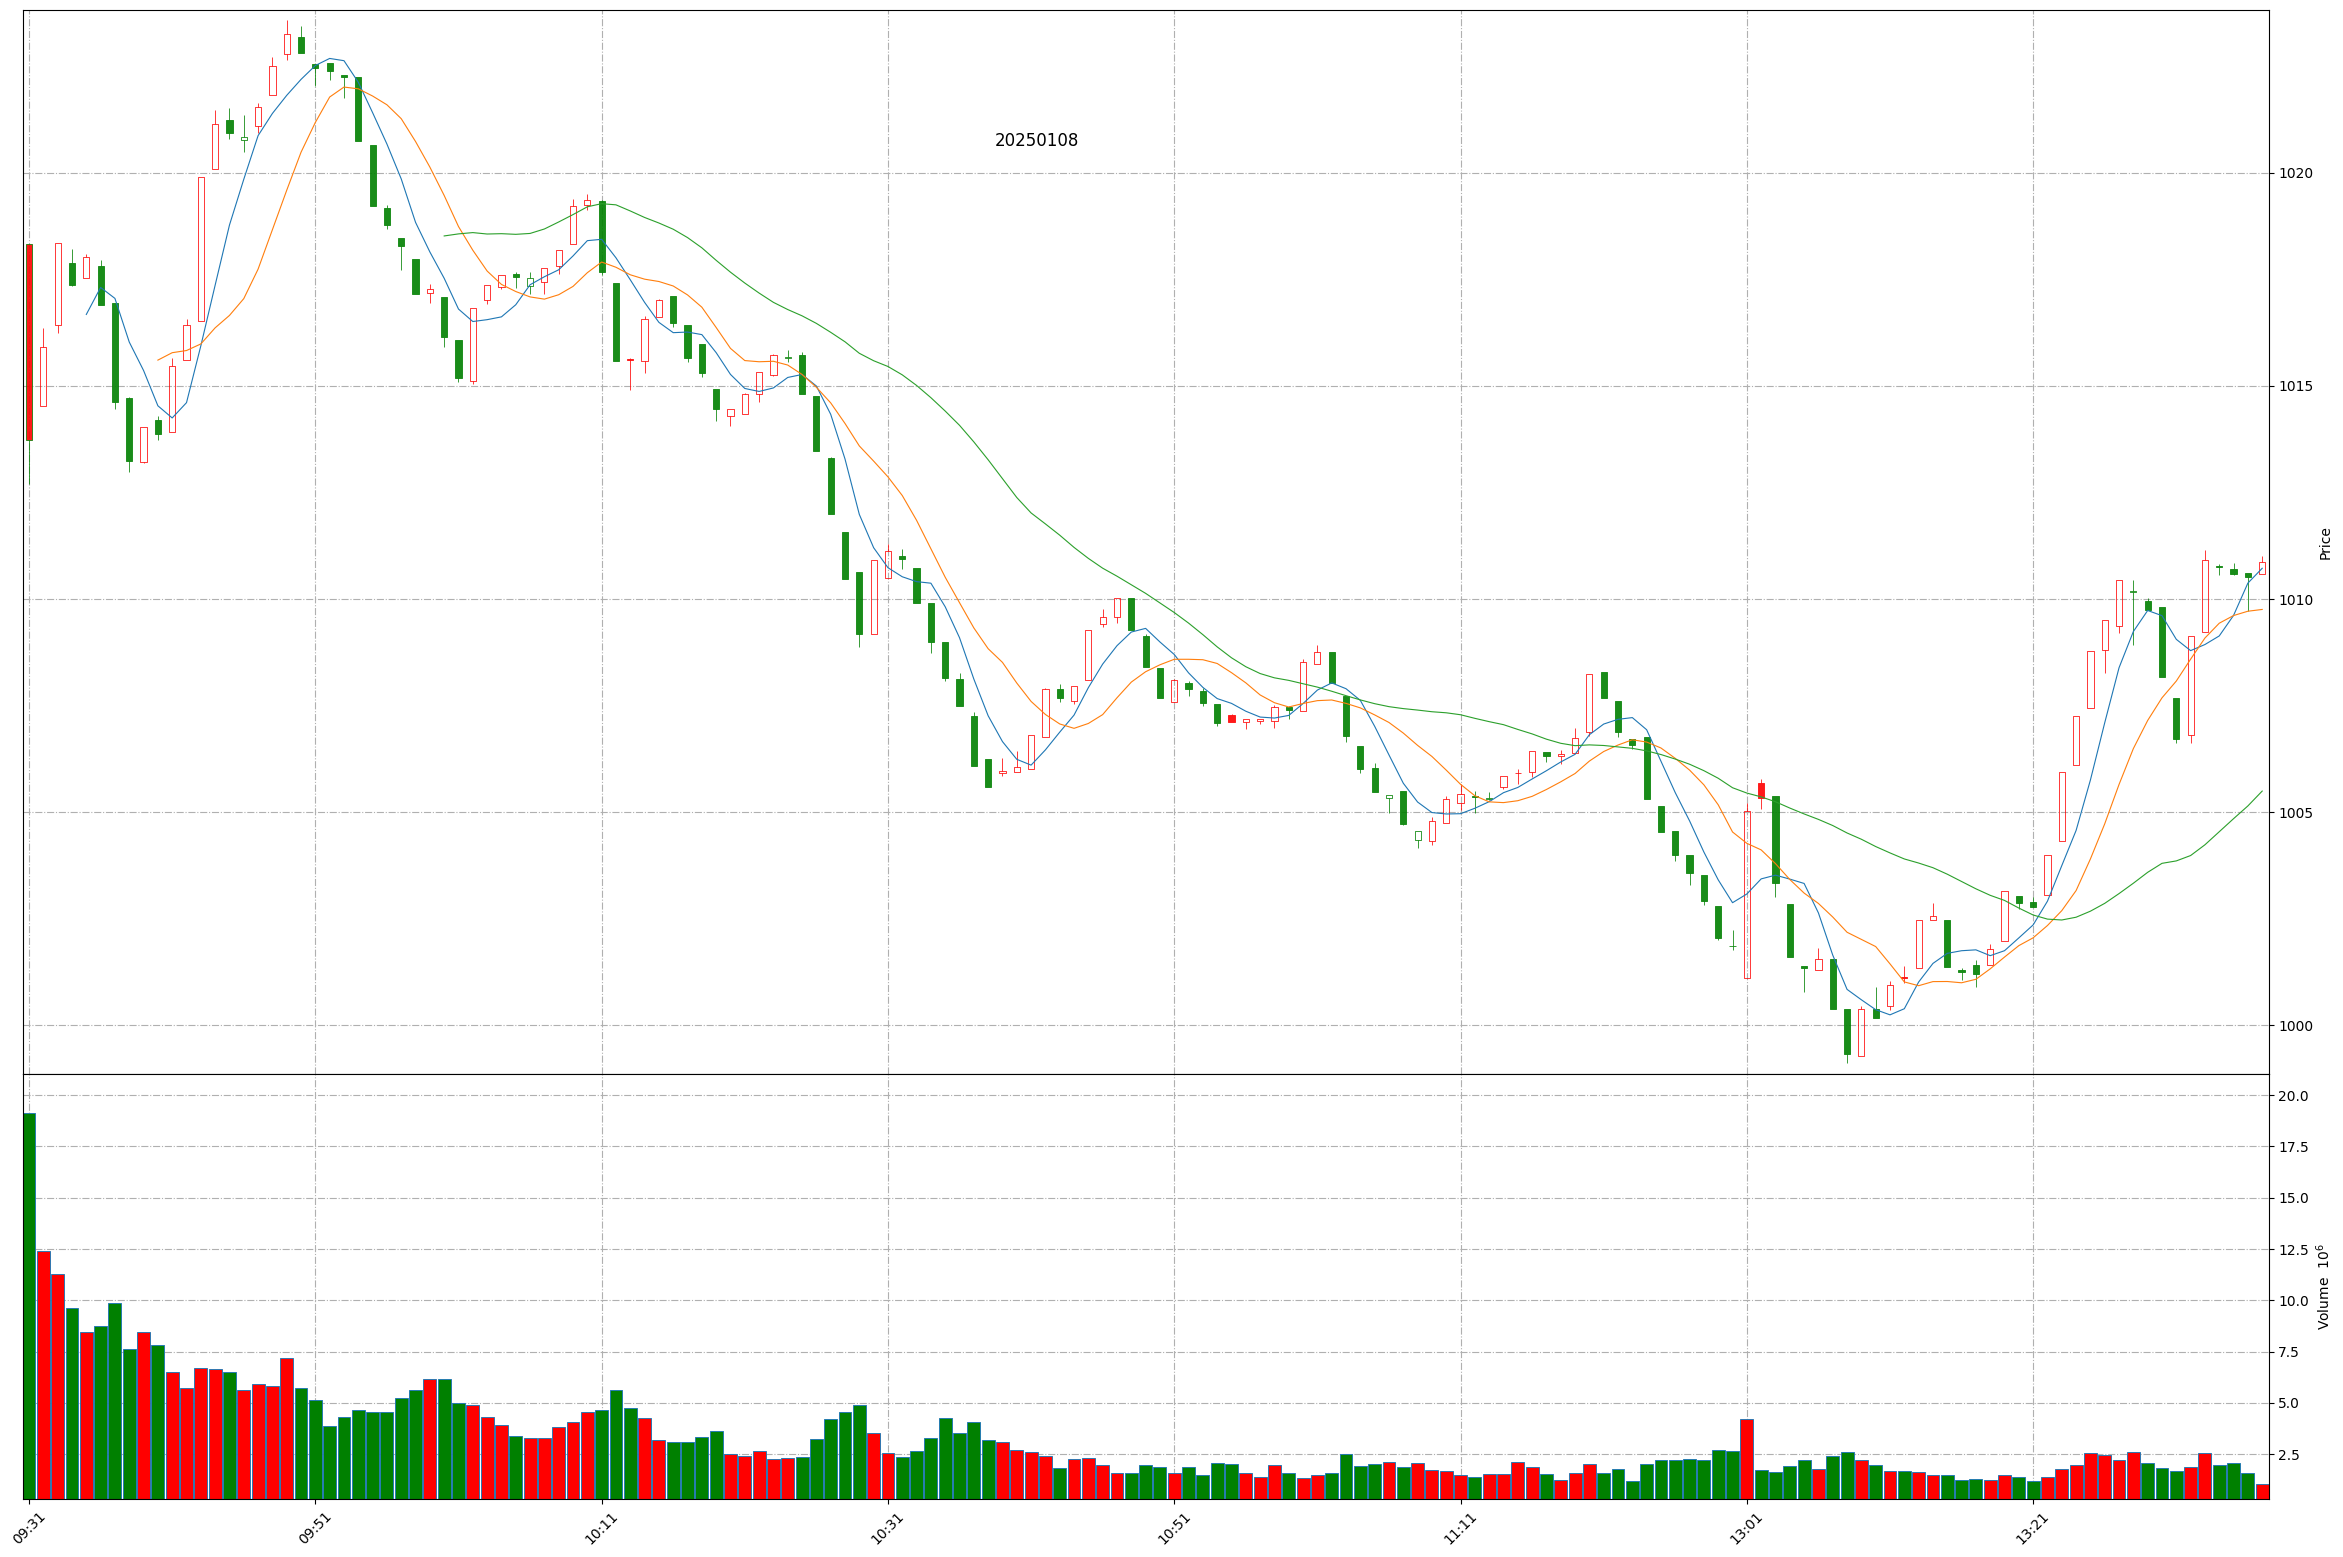
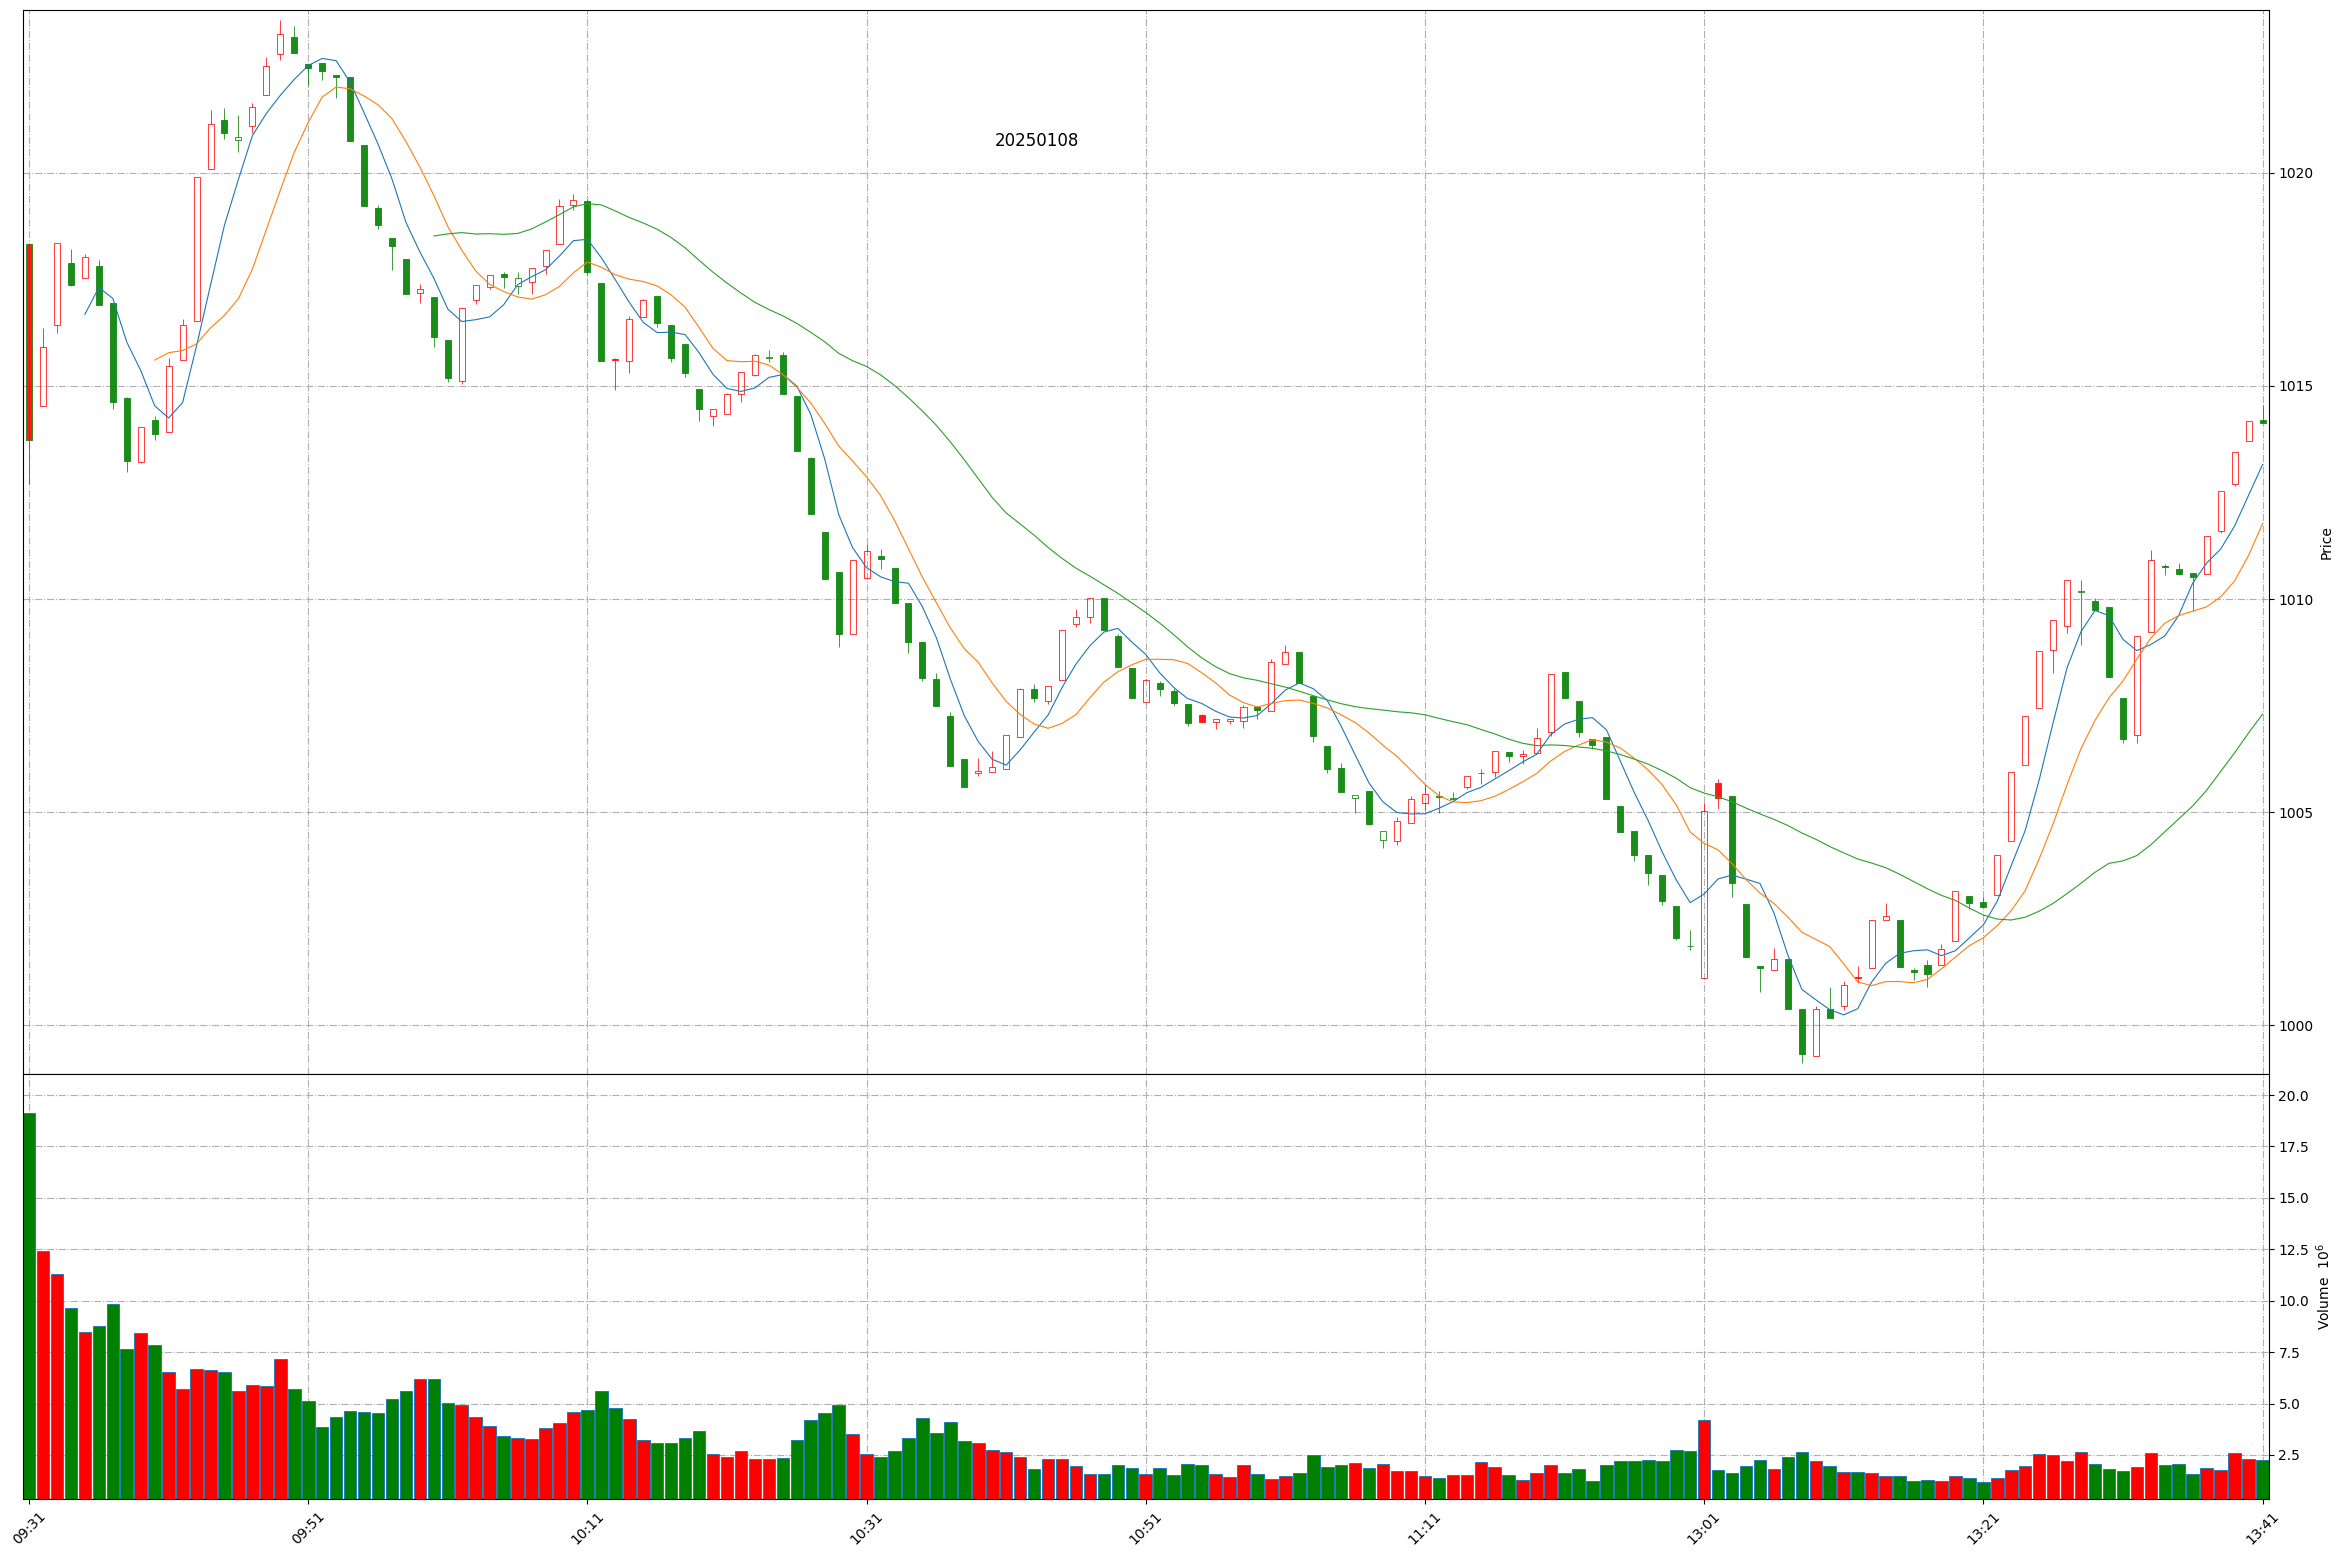
Github action update at 2025-01-08 13:41:08.

diff --git a/README.md b/README.md
@@ -1,11 +1,11 @@
 
 # Daily-A-share-market-quotes 每日 A 股指数（5min 更新）- 20250108
 
-### 上证指数 20250108 13:36
+### 上证指数 20250108 13:41
 ![](./fig/2025/1/20250108-sh000001.png)
 
-### 深证成指 20250108 13:36
+### 深证成指 20250108 13:41
 ![](./fig/2025/1/20250108-sz399001.png)
 
-### 北证50 20250108 13:36
+### 北证50 20250108 13:41
 ![](./fig/2025/1/20250108-bj899050.png)
